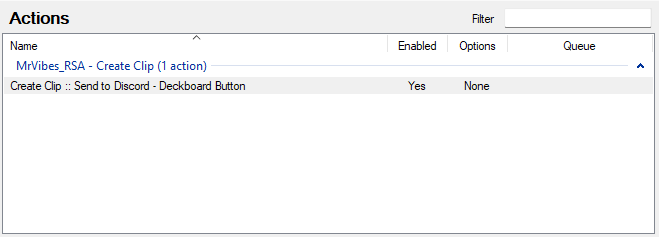
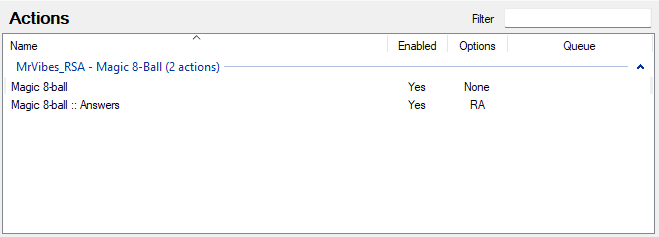
Added Magic 8 ball

diff --git a/Magic-8-ball/README.md b/Magic-8-ball/README.md
@@ -1,27 +1,26 @@
-# Twitch clip to Discord
- This Action alows you to create a Twitch clip  ans send it as an Embed to your Discord.
+# Ask Magic 8-ball
+ This Action alows you to ask a magic 8-ball yes and no questions.
 
 ## Import Code
 + Copy This Code.
 ```text
[2 lines of base64/hex data omitted]
 ```
 
 ## Installation
 In Streamer.bot in select `Import` from the top left.
 Copy the `Import Code` and paste it into the `Import String`. 
 + Example:
-+ ![Clip-To-Discord-Import](Images/Clip-To-Discord-Import.png)
++ ![Import](Images/Import.png)
 
-+ You should now have 1 new action.
++ You should now have 2 new action.
 + Example:
 + ![List-of-imported-Actions](Images/List-of-imported-Actions.png "List-of-imported-Actions")
 
 ## Example Usage
-+ You can now bind this action to your StreamDeck, Deckboard action or a channel point redemption.
++ You can now bind this action to a channel point redemption.
 + Example:
-+ ![Example-Embed](Images/Example-Embed.png "Example-Embed")
++ ![Example](Images/Example.png "Example")
 
 ## Contributors
  - [MrVibes_RSA](https://www.twitch.tv/MrVibes_RSA)
- - [ShimmyMySherbet](https://github.com/ShimmyMySherbet)
